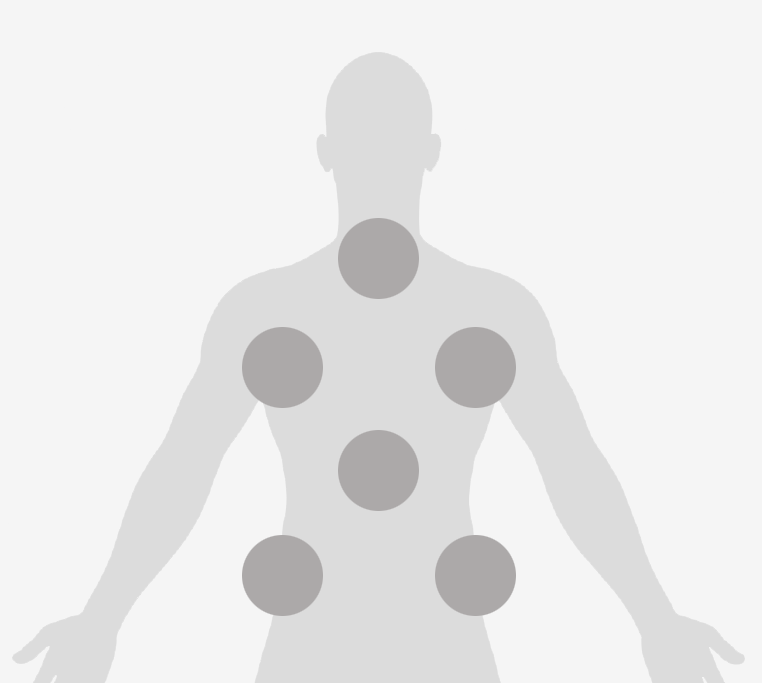
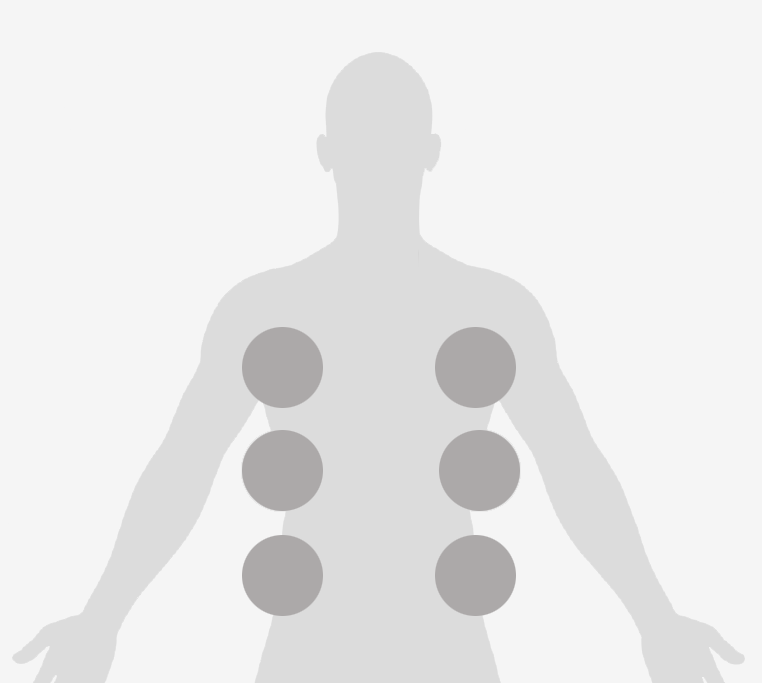
Slight modifications for mark II

Changed region(s): [[0.3018, 0.6149, 0.6942, 0.7687], [0.4226, 0.3075, 0.5735, 0.4612]]

diff --git a/public/scripts/core.js b/public/scripts/core.js
@@ -31,23 +31,23 @@ var __alfabeat = (function(){
 
 	// Where do we draw the indicators on our canvas
 	var indicatorPositions = [{
-			x : 119,
-			y : 174
+			x : 120,
+			y : 125
+		},{
+			x : 120,
+			y : 75
+		},{
+			x : 120,
+			y : 175
 		},{
 			x : 25,
-			y : 174
+			y : 75
 		},{
-			x : 72,
-			y : 123
+			x : 25,
+			y : 175
 		},{
-			x : 118,
-			y : 74
-		},{
-			x : 26,
-			y : 73
-		},{
-			x : 72,
-			y : 20
+			x : 25,
+			y : 125
 		}
 	];
 

diff --git a/public/styles.css b/public/styles.css
@@ -77,20 +77,20 @@ span#two {
 
 span#three {
     top: 206px;
-    left: 161px;
+    left: 208px;
 }
 
 span#four {
-	top: 156px;
-	left: 208px;    
+	top: 206px;
+	left: 114px;    
 }
 
 span#five {
     top: 156px;
-    left: 114px;
+    left: 208px;
 }
 
 span#six {
-	top: 103px;
-	left: 161px;
+	top: 156px;
+	left: 114px;
 }

diff --git a/app.js b/app.js
@@ -216,7 +216,7 @@ function handleDevice(err, ports){
 					}
 
 					// Send the data to all listening clients and reset the values
-
+					console.log(averages);
 					io.sockets.emit('drums', {
 						values : averages
 					});
